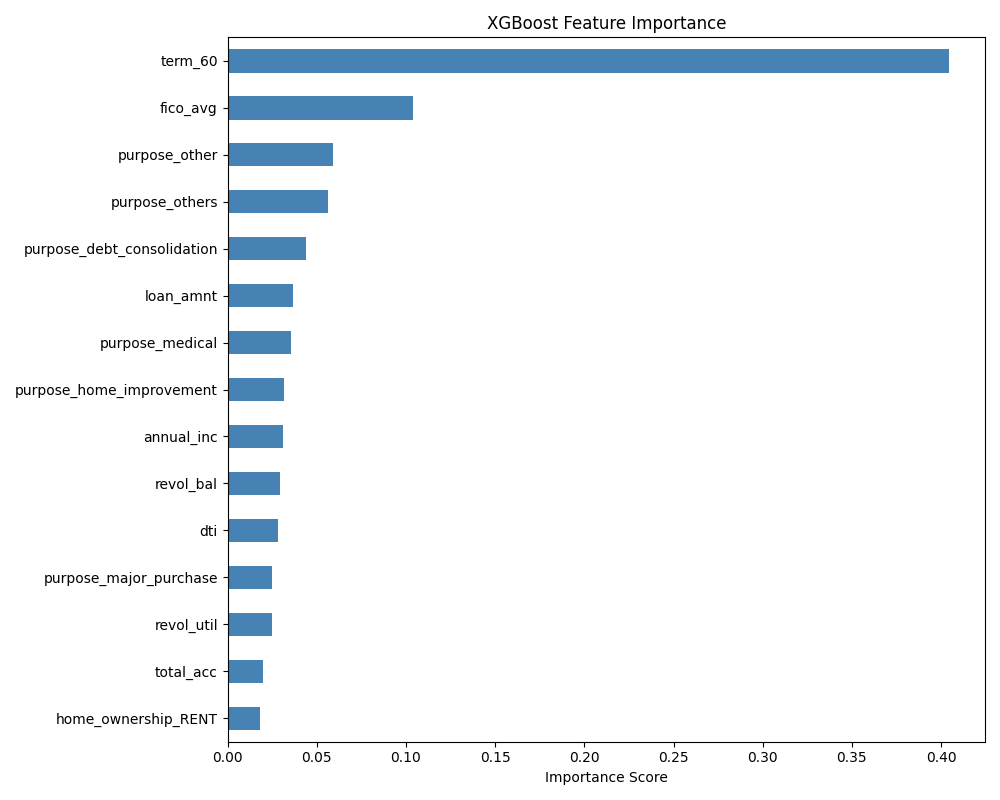
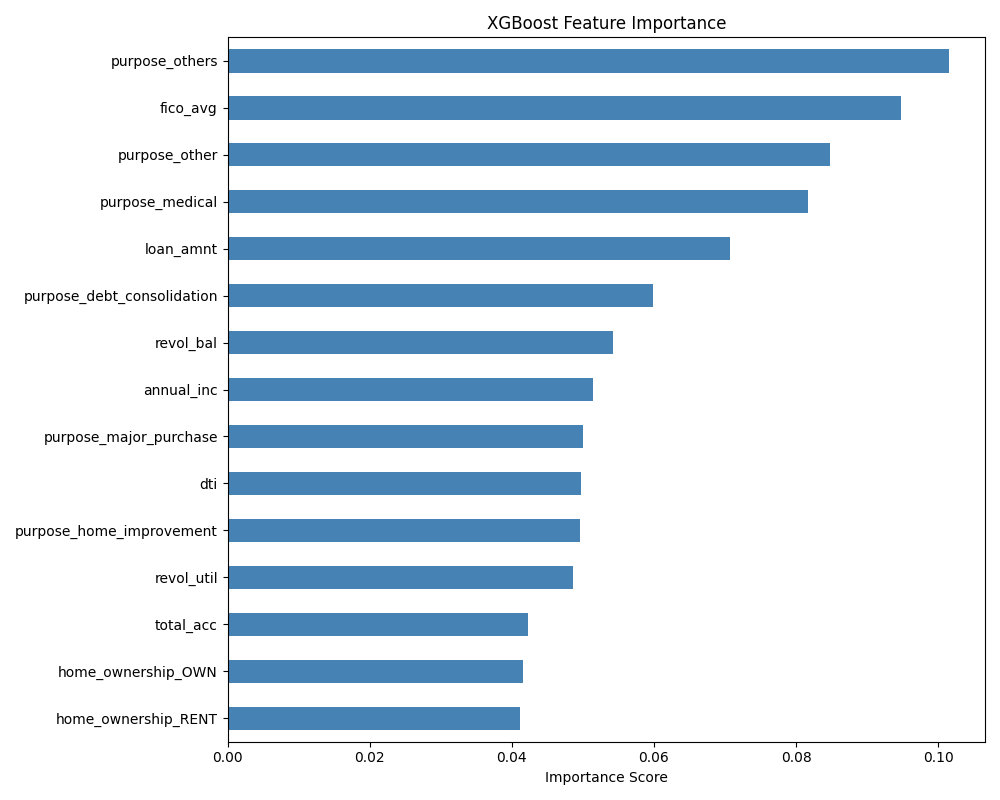
Preprocessing Fixed

diff --git a/notebooks/xgboost_model.py b/notebooks/xgboost_model.py
@@ -4,6 +4,7 @@ import matplotlib.pyplot as plt
 import seaborn as sns
 from xgboost import XGBClassifier
 from sklearn.metrics import accuracy_score, classification_report, confusion_matrix
+from sklearn.utils.class_weight import compute_sample_weight
 import shap
 
 
@@ -23,14 +24,16 @@ print(X_train.columns.to_list())
 
 # 1. Handling Class Imbalance from Class Weights
 
-class_counts = y_train.value_counts().sort_index()
+# class_counts = y_train.value_counts().sort_index()
 
-total = len(y_train)
+# total = len(y_train)
 
-class_weights = {i: min(total / (len(class_counts) * count),10.0)
-                 for i, count in class_counts.items()} 
+# class_weights = {i: min(total / (len(class_counts) * count),10.0)
+#                  for i, count in class_counts.items()} 
 
-sample_weights = y_train.map(class_weights)
+# sample_weights = y_train.map(class_weights)
+
+sample_weights= compute_sample_weight(class_weight='balanced', y=y_train)
 
 
 # 2. Building XGBoost
@@ -38,9 +41,9 @@ sample_weights = y_train.map(class_weights)
 print("-----Training XGBoost-----")
 
 model = XGBClassifier(
-    n_estimators = 300,
-    max_depth = 6,
-    learning_rate = 0.1,
+    n_estimators = 500,
+    max_depth = 8,
+    learning_rate = 0.05,
     subsample= 0.8,
     colsample_bytree = 0.8,
     use_label_encoder = False,
@@ -112,9 +115,15 @@ print(importance.sort_values(ascending=False).head(10))
 explainer = shap.TreeExplainer(model)
 model_shap_values = explainer.shap_values(X_test[:500])
 
+if isinstance(model_shap_values, list):
+    shap_to_plot= model_shap_values[1]
+
+else:
+    shap_to_plot = model_shap_values[:, :, 1]    
+
 
 plt.figure()
-shap.summary_plot(model_shap_values[1], X_test[:500],
+shap.summary_plot(shap_to_plot, X_test[:500],
                   feature_names= X_train.columns.to_list(),
                   show=False)
 

diff --git a/notebooks/preprocessing.py b/notebooks/preprocessing.py
@@ -9,7 +9,7 @@ df = pd.read_csv(
     'data/accepted_2007_to_2018Q4.csv.gz',
     compression='gzip',
     low_memory=False,
-    nrows=100000
+    nrows=500000
 )
 print(f" Data loaded: {df.shape}")
 
@@ -91,7 +91,7 @@ purpose_counts = df_new['purpose'].value_counts()
 rare_purpose = purpose_counts[purpose_counts<1000].index
 
 df_new['purpose'] = df_new['purpose'].apply(
-    lambda x: 'others' if x in rare_purpose else x
+    lambda x: 'other' if x in rare_purpose else x
 )
 
 print(f"Purpose after rare encoding: {df_new['purpose'].value_counts()}")
